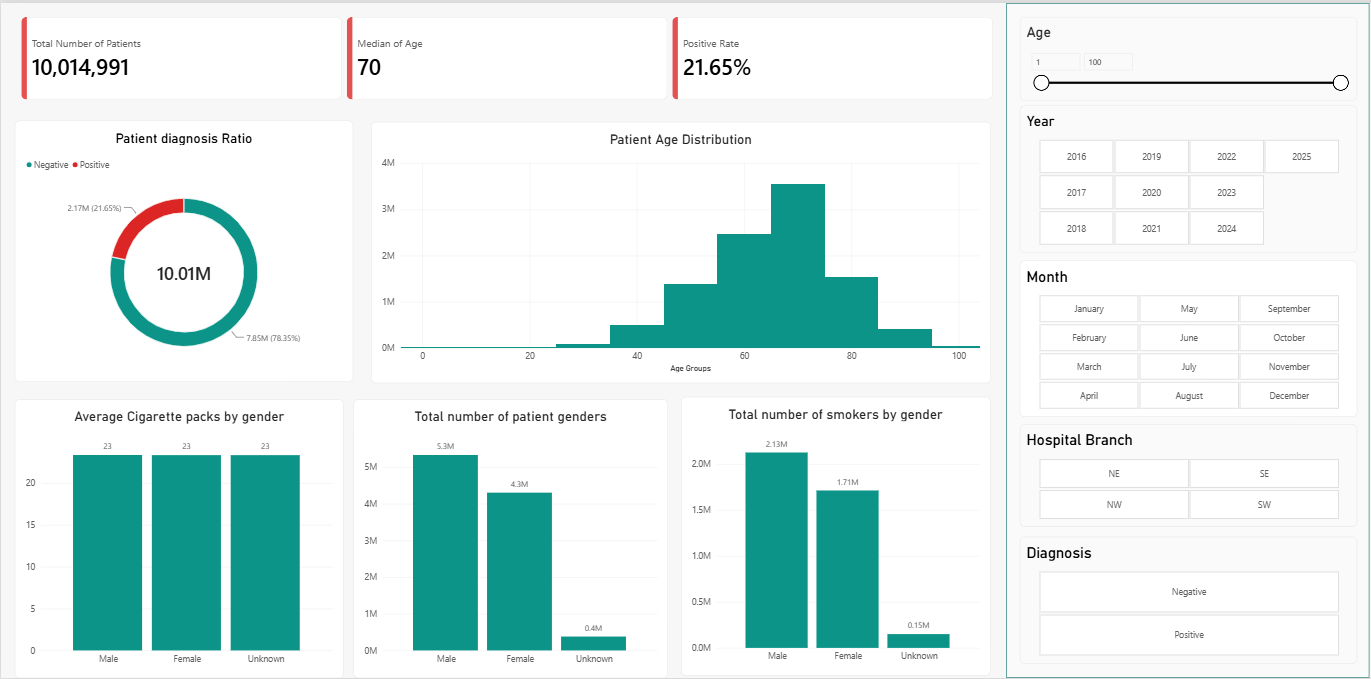
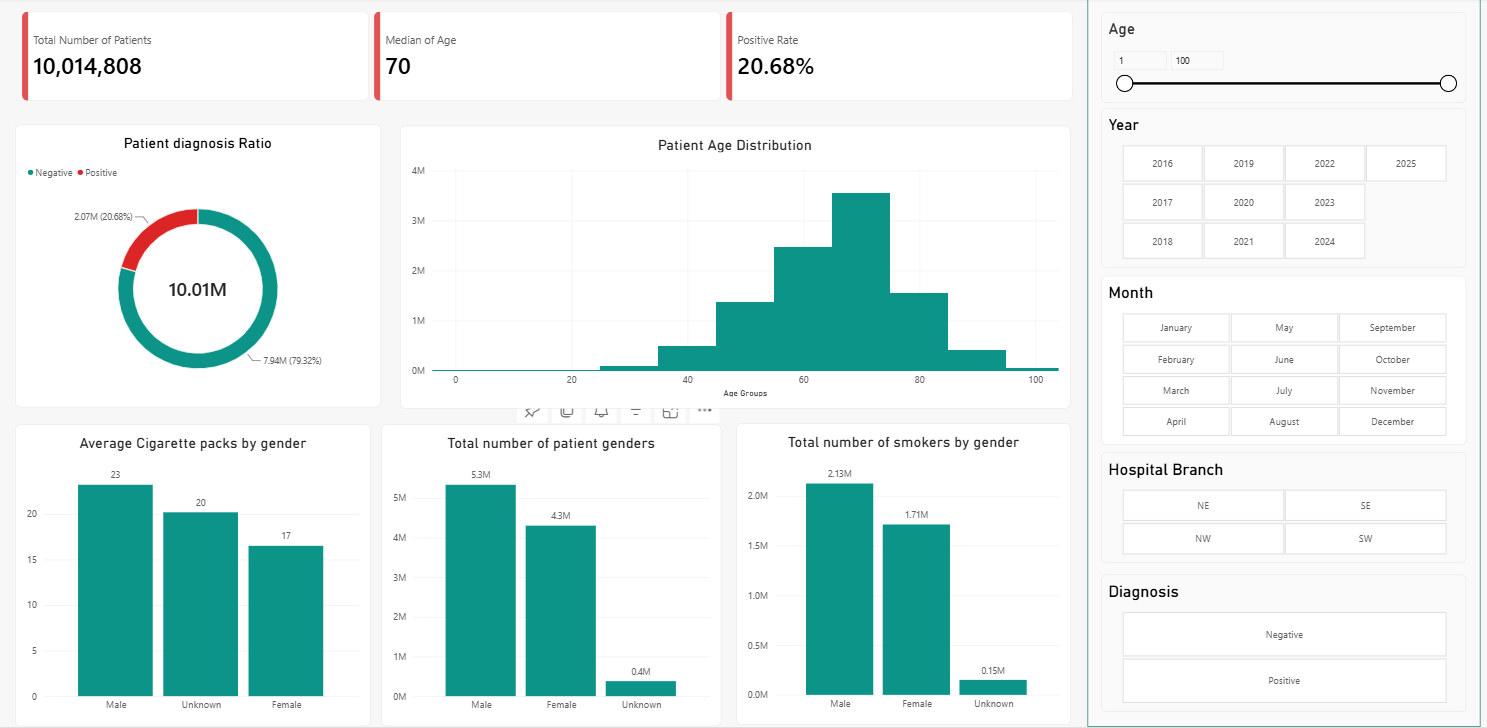
new cleaned power bi

diff --git a/utils.py b/utils.py
@@ -18,7 +18,7 @@ CLEAN_FILE = "cleaned_lung_cancer_dataset.csv" # TODO: cleaned file name
 # It must start with https://app.powerbi.com/view?r=   ("" = placeholder box)
 POWERBI = {
     "messy": "https://app.powerbi.com/reportEmbed?reportId=f8d82a2d-c8b1-4199-97a8-8be7c9efc1d8&autoAuth=true&ctid=cceb61f2-e867-476f-8597-b4cf22555bc4",
-    "clean": "https://app.powerbi.com/reportEmbed?reportId=09d6907b-2d20-465c-8deb-be6606a69b5d&autoAuth=true&ctid=cceb61f2-e867-476f-8597-b4cf22555bc4",
+    "clean": "https://app.powerbi.com/reportEmbed?reportId=023dec27-f439-42c2-b7d9-ef3985f8c1a9&autoAuth=true&ctid=cceb61f2-e867-476f-8597-b4cf22555bc4",
 }
 
 STATS = {
